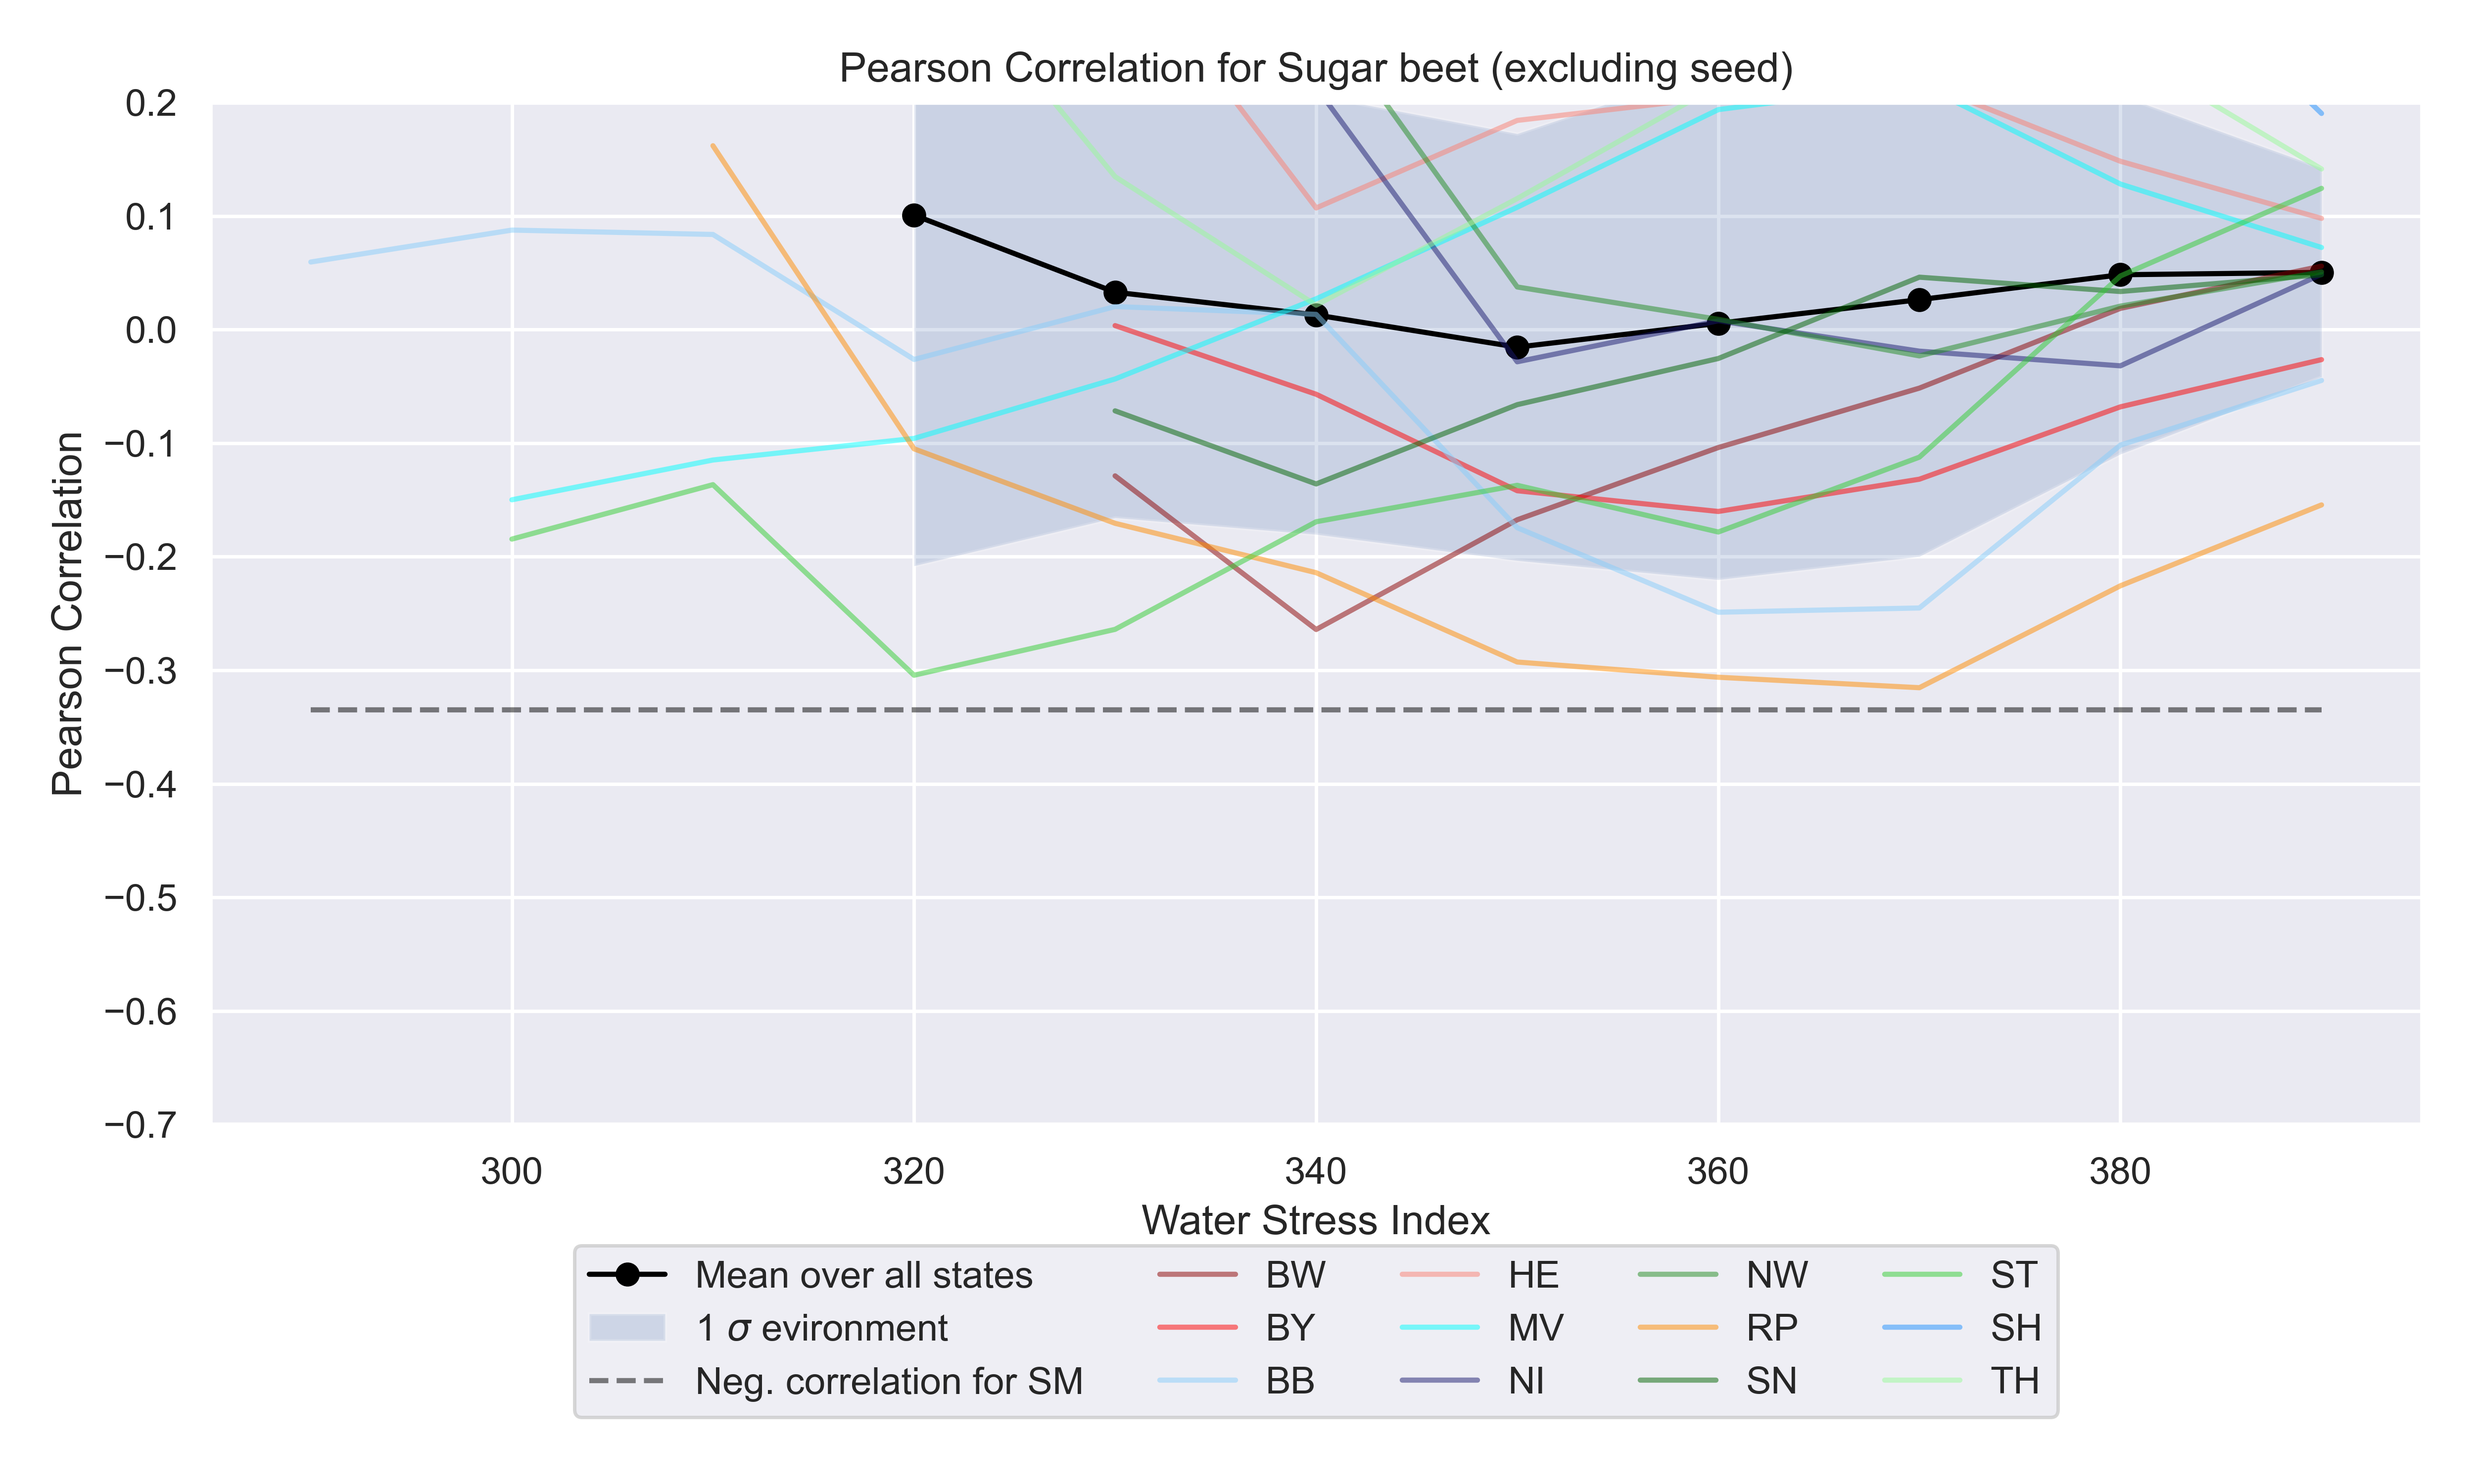
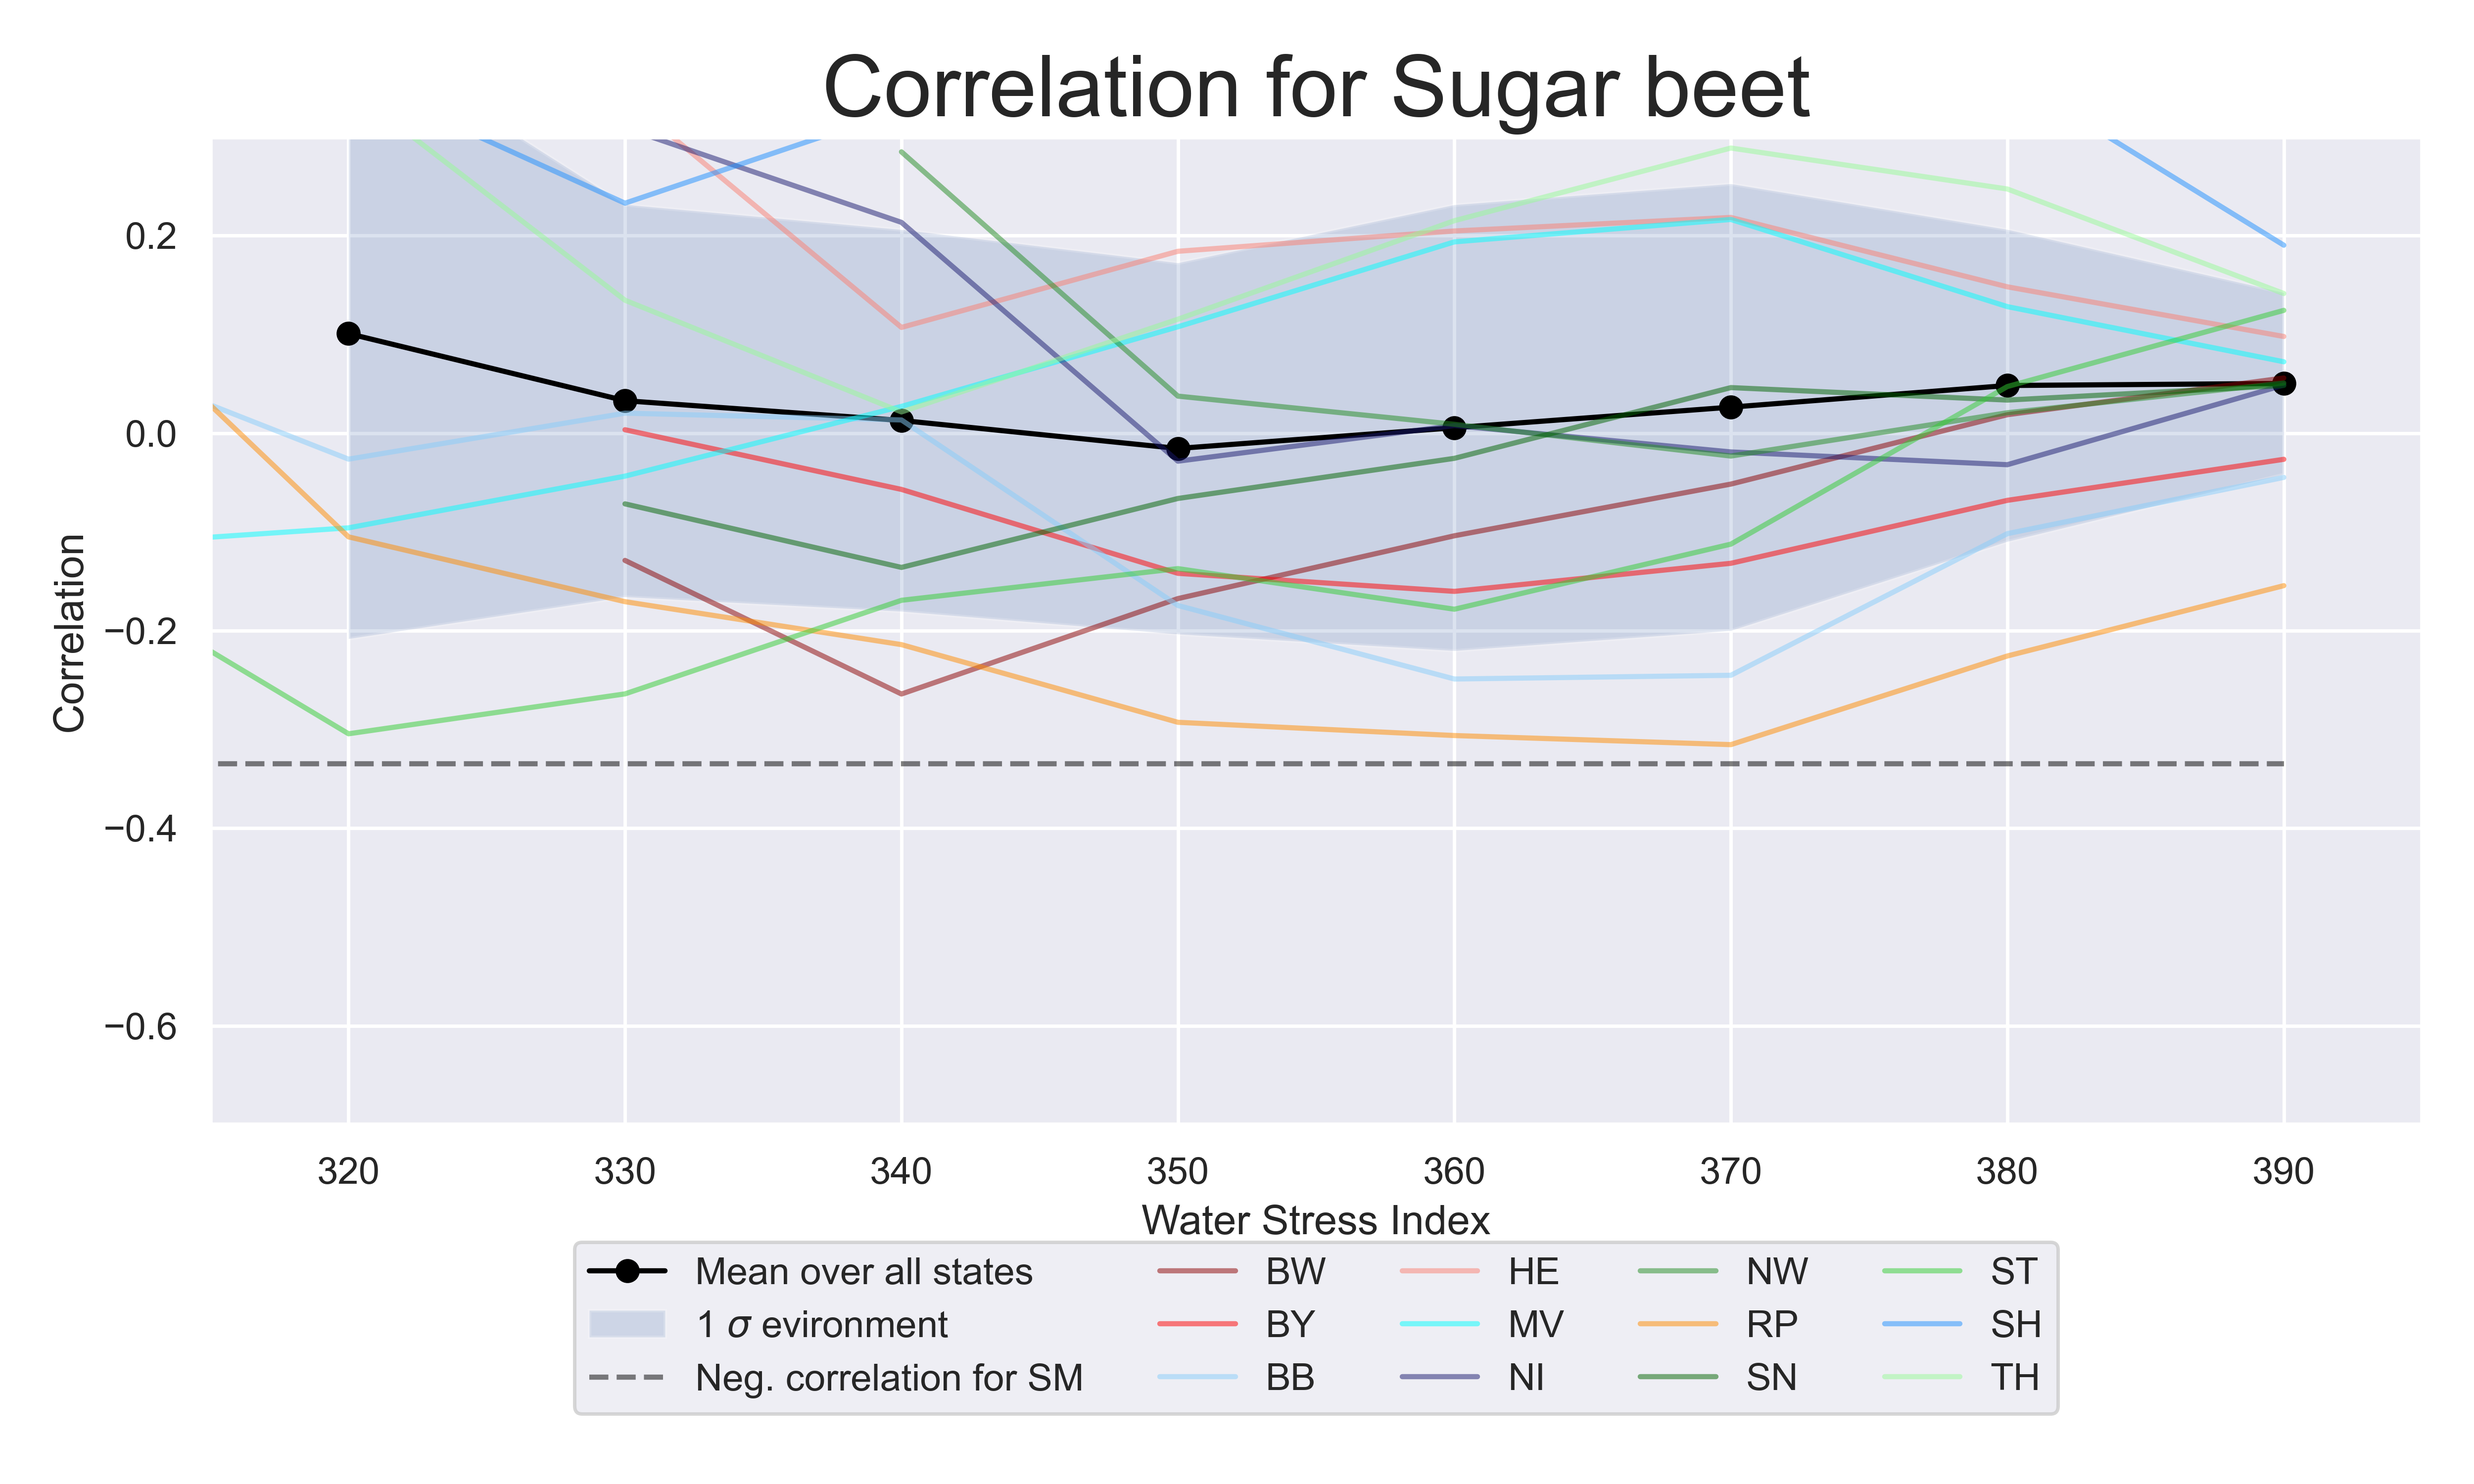
adjusted fontsize

diff --git a/crop_yield/compareWSI/compareWSI.py b/crop_yield/compareWSI/compareWSI.py
@@ -174,7 +174,7 @@ def plot_comparison():
     plt.rcParams.update({'font.size': 14})
     df = pd.read_csv('crop_yield/compareWSI/results.csv')
     # Create empty lists to store mean and standard deviation for each water stress index
-    # Convert 'Pearson Correlation' column to numeric
+    # Convert 'Correlation' column to numeric
     df['Pearson Correlation'] = pd.to_numeric(df['Pearson Correlation'], errors='coerce')
     # Group by 'crop_type' and 'Water Stress Index'
     nan_counts = df.groupby(['crop_type', 'Water Stress Index']).apply(lambda x: (x['Pearson Correlation'].isnull().sum() <= 5)).reset_index(name='Less Than 5 NaN')
@@ -204,10 +204,11 @@ def plot_comparison():
 
         i += 14
         plt.legend(bbox_to_anchor=(0.5, -0.1), loc='upper center', ncol=5)
-        plt.ylim(-0.7, 0.2)
+        plt.ylim(-0.7, 0.3)
+        plt.xlim(315,395)
         plt.xlabel('Water Stress Index')
-        plt.ylabel('Pearson Correlation')
-        plt.title(f'Pearson Correlation for {ds.crop_types[crop]}')
+        plt.ylabel('Correlation')
+        plt.title(f'Correlation for {ds.crop_short[crop]}', fontsize=25)
         plt.tight_layout()
         plt.savefig(f'crop_yield/compareWSI/correlationcomp_{crop}.png', dpi = 500)#, transparent = True)
         plt.show()
@@ -217,7 +218,7 @@ def plot_comp_comparison():
     plt.rcParams.update({'font.size': 14})
     df = pd.read_csv('crop_yield/compareWSI/results.csv')
     # Create empty lists to store mean and standard deviation for each water stress index
-    # Convert 'Pearson Correlation' column to numeric
+    # Convert 'Correlation' column to numeric
     df['Pearson Correlation'] = pd.to_numeric(df['Pearson Correlation'], errors='coerce')
     # Group by 'crop_type' and 'Water Stress Index'
     nan_counts = df.groupby(['crop_type', 'Water Stress Index']).apply(lambda x: (x['Pearson Correlation'].isnull().sum() <= 5)).reset_index(name='Less Than 5 NaN')
@@ -238,15 +239,17 @@ def plot_comp_comparison():
     for crop in ds.filal_plot_crops:
         water_stress_values = filtered_nan_counts[filtered_nan_counts['crop_type'] == crop]['Water Stress Index'].unique().tolist()
         missing_waterstess = len(water_stress_values)-2
-        plt.plot(water_stress_values, meantolist[i+missing_waterstess:i+14], marker='o', linestyle='-', color=ds.crop_types_colors[crop], label=f'{ds.crop_short[crop]}')
-        plt.fill_between(water_stress_values, meantolist[i+missing_waterstess:i+14]-stdtolist[i+missing_waterstess:i+14], meantolist[i+missing_waterstess:i+14]+stdtolist[i+missing_waterstess:i+14], alpha=0.2, color=ds.crop_types_colors[crop])
+        plt.plot(water_stress_values, meantolist[i+14+missing_waterstess:i+14+14], marker='o', linestyle='-', color=ds.crop_types_colors[crop], label=f'{ds.crop_short[crop]}')
+        plt.fill_between(water_stress_values, meantolist[i+missing_waterstess+14:i+14+14]-stdtolist[i+14+missing_waterstess:i+14+14], meantolist[i+14+missing_waterstess:i+14+14]+stdtolist[i+missing_waterstess+14:i+14+14], alpha=0.2, color=ds.crop_types_colors[crop])
         i += 14
         plt.hlines(-ds.crop_types_correlation[crop], water_stress_values[0], 390, linestyle='--',  color=ds.crop_types_colors[crop]),#label=f'Average correlation for soilmoisture {ds.crop_short[crop]}')
     #plt.plot(water_stress_values, 390*np.ones_like(water_stress_values), linestyle='--', label='Average correlation for soilmoisture', color='grey')
     plt.legend(bbox_to_anchor=(0.5, -0.1), loc='upper center', ncol=3)
+    plt.ylim(-0.7, 0.3)
     plt.xlabel('Water Stress Index')
-    plt.ylabel('Pearson Correlation')
-    plt.title(f'Pearson Correlation for all crops')
+    plt.xlim(315,395)
+    plt.ylabel('Correlation')
+    plt.title(f'Correlation for remaining crops', fontsize=25)
     plt.tight_layout()
     plt.savefig(f'crop_yield/compareWSI/correlationcompcomp_{crop}.png', dpi = 500)#, transparent = True)
     plt.show()
@@ -258,7 +261,7 @@ WSI = np.arange(260,400, 10)
     calc_water_stress(i)
     map_to_state(i)
 """
-"""results = pd.DataFrame(columns=['NUTS_ID', 'crop_type', 'Water Stress Index',  'Pearson Correlation'])
+"""results = pd.DataFrame(columns=['NUTS_ID', 'crop_type', 'Water Stress Index',  'Correlation'])
 for state in ds.important_states:
     for crop in ds.crop_types:
         print(crop)
@@ -273,7 +276,7 @@ for state in ds.important_states:
             else:
                 pearson_corr, p = pearsonr(wcorr, cropcorr)
             print(pearson_corr, p)
-            results = results._append({'NUTS_ID': state, 'crop_type': crop, 'Water Stress Index': i, 'Pearson Correlation': pearson_corr}, ignore_index=True)
+            results = results._append({'NUTS_ID': state, 'crop_type': crop, 'Water Stress Index': i, 'Correlation': pearson_corr}, ignore_index=True)
 
 results.to_csv('crop_yield/compareWSI/results.csv')"""
 

diff --git a/crop_yield/visualisation_waterstress.py b/crop_yield/visualisation_waterstress.py
@@ -93,15 +93,18 @@ for date in date_ticks:
 
 
 ax.set_xticks(middles, season_ticks)"""
-ax.fill_between(dates[zero_to_nonzero:max_stress], soil_moisture[zero_to_nonzero:max_stress], water_stress_value, color='red', alpha=0.5)
-ax.fill_between(dates[max_stress:nonzero_to_zero], soil_moisture[max_stress:nonzero_to_zero], water_stress_value, color='green', alpha=0.5)
-ax.plot(dates, soil_moisture, 'darkblue', label='Soil Moisture [mm]')
-ax.vlines(dates[max_stress], 0, 500, colors='black', linestyles='dashed', label='Maximum Water Stress')
+fig = plt.figure(facecolor='#0A6847')
+plt.fill_between(dates[zero_to_nonzero:max_stress], soil_moisture[zero_to_nonzero:max_stress], water_stress_value, color='red', alpha=0.5)
+plt.fill_between(dates[max_stress:nonzero_to_zero], soil_moisture[max_stress:nonzero_to_zero], water_stress_value, color='green', alpha=0.5)
+plt.plot(dates, soil_moisture, 'darkblue', label='Soil Moisture')
+plt.vlines(dates[max_stress], 300, np.max(water_stress)*np.max(soil_moisture), colors='black', alpha=0.5)
 #ax.set_xlim(np.min(soil_moisture), np.max(soil_moisture))
-ax.hlines(water_stress_value, dates[0], dates[-1] , colors='red', linestyles='dashed', label='Water Stress Value')
-ax1 = ax.twinx()
-ax1.plot(dates, water_stress, 'r')
-ax1.set_ylabel('Water Stress [mm]')
+plt.hlines(water_stress_value, dates[0], dates[-1] , colors='black', linestyles='dashed', label='Water stress threshold ', alpha=0.5)
+
+plt.plot(dates, water_stress/np.max(water_stress)*np.max(soil_moisture), 'black', label='Water Stress')
+plt.axis('off')
+
+plt.legend(bbox_to_anchor=(0.5, -0.1), loc='upper center', ncol=3)
 plt.savefig('crop_yield/Figures/soil_moisture.png', transparent=True)
 plt.show()
 
